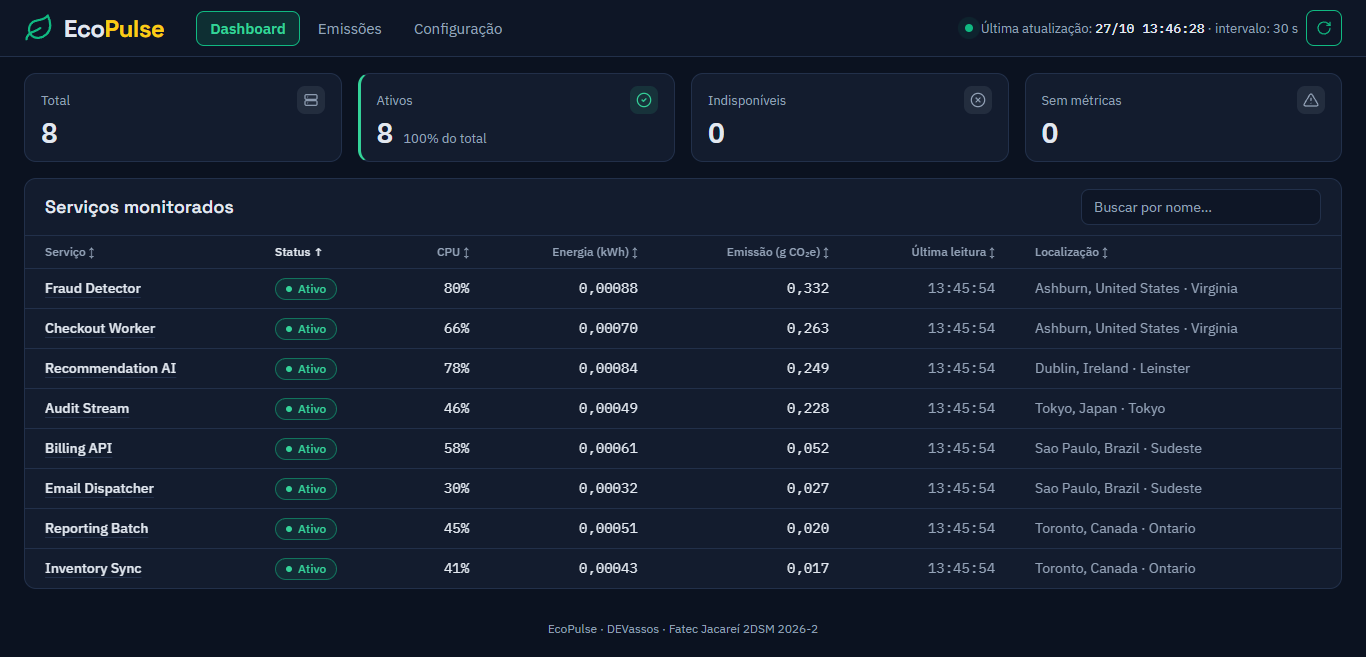
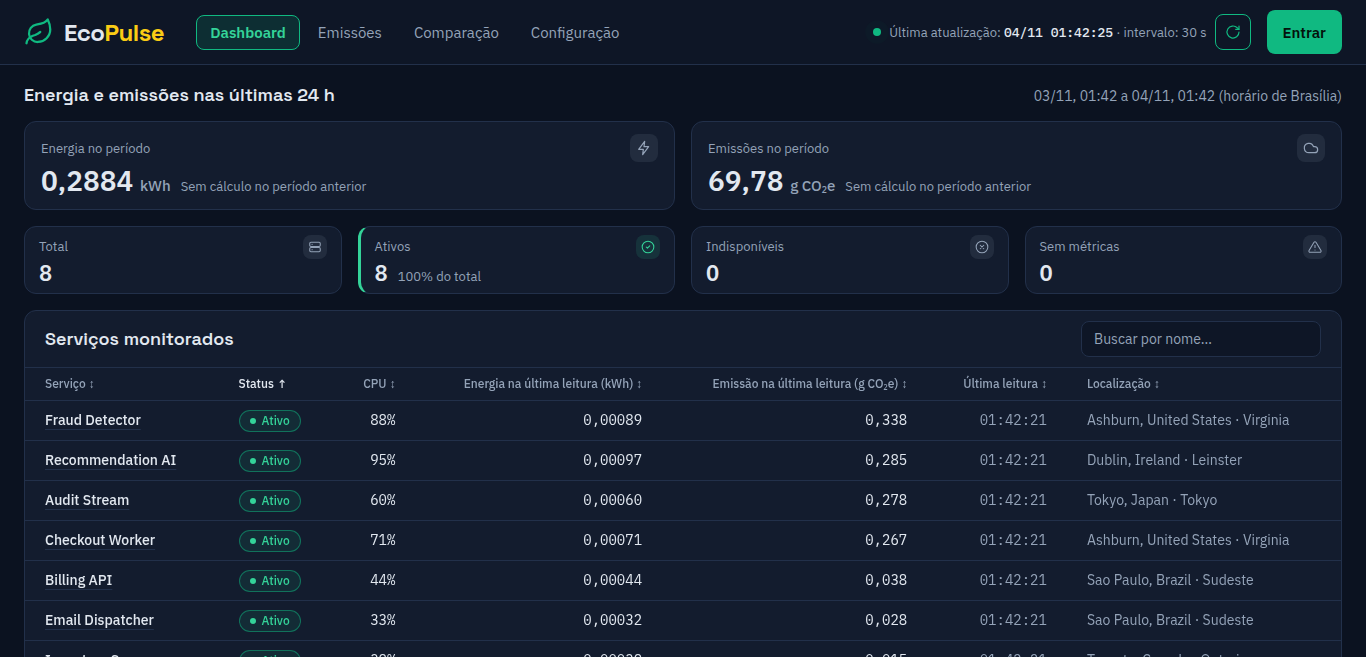
docs(docs): registra a nova ordem do dashboard (#259) [RF08 RF09]
README raiz: descrição dos cards e dos indicadores na nova ordem e os
três prints do dashboard refeitos com o backend real em 04/11/2026.
frontend/README.md: posição do SummaryPanel, estado "Calculando…",
nomes das colunas e o passo 55 do "Como verificar".
identidade-visual.md: impacto primeiro e o card compacto.

diff --git a/frontend/README.md b/frontend/README.md
@@ -75,10 +75,11 @@ Lidas do `.env` da **raiz** do repositório (modelo em `.env.example`; `envDir: 
 
 ## Indicadores agregados (RF08)
 
-- `SummaryPanel`, abaixo dos cards de estado, mostra **Energia no período** (kWh, 4 casas) e **Emissões no período** (g CO₂e, 2 casas) das **últimas 24 h**, com o período no título em horário de Brasília (`timeZone: 'America/Sao_Paulo'`). O estado dos serviços fica só nos cards do `KpiPanel` (#21): o `services` de `GET /api/services/summary` é o estado **atual** e não depende do período, por isso o painel não o repete.
+- `SummaryPanel` fica no topo do dashboard, logo abaixo do cabeçalho e acima dos cards de estado (#259: o impacto vem primeiro), e mostra **Energia no período** (kWh, 4 casas) e **Emissões no período** (g CO₂e, 2 casas) das **últimas 24 h**, com o período no título em horário de Brasília (`timeZone: 'America/Sao_Paulo'`). O estado dos serviços fica só nos cards do `KpiPanel` (#21): o `services` de `GET /api/services/summary` é o estado **atual** e não depende do período, por isso o painel não o repete.
 - O `DashboardPage` chama `GET /api/services/summary` (por `fetchServicesSummary`, em `src/services/services.service.ts`) a cada ciclo do polling, duas vezes: as últimas 24 h e as 24 h anteriores a elas. A nota de cada card é a variação "±N,N% vs. 24 h anteriores"; sem cálculo no período anterior, "Sem cálculo no período anterior"; com total anterior zero, "Sem base para comparação".
 - Sem cálculo no período, o valor é o traço do `MissingValue` ("sem cálculo" para leitor de tela), nunca zero. Nos ciclos seguintes ao primeiro, a variação anterior continua na tela até chegar a nova resposta, sem piscar "Comparando período anterior…".
 - Falha do resumo ou da comparação aparece como `ErrorState` abaixo da faixa de falha da lista (`UpdateFailedBanner`, #217), e os cards ficam com os números apagados até a próxima busca bem-sucedida.
+- Enquanto a primeira resposta não chega, os dois cards mostram "…" e "Calculando o período…", nunca "—" nem zero, e já ocupam o lugar deles, para a página não pular quando o resumo chega (#259). Os cards de estado ficam logo abaixo, na versão compacta do `MetricTile` (`compact`, cerca de 64 px).
 - No modo demonstração (sem `VITE_API_URL`) o painel não aparece: não há dados de demonstração para o resumo.
 - Com o backend falso (`npm run mock`, #239), o painel soma as coletas que o mock gera a cada 30 s. Como elas se repetem dia a dia, a variação contra as 24 h anteriores fica perto de zero.
 
@@ -92,7 +93,7 @@ Lidas do `.env` da **raiz** do repositório (modelo em `.env.example`; `envDir: 
 
 ## Energia e emissão na tabela
 
-- As colunas "Energia (kWh)" e "Emissão (g CO₂e)" mostram o resultado da **última coleta** de cada serviço (cerca de 30 s de operação), calculado pelo backend desde o #139. Sem cálculo disponível (por exemplo, com a API de carbono fora), aparece "—", nunca zero.
+- As colunas "Energia na última leitura (kWh)" e "Emissão na última leitura (g CO₂e)" mostram o resultado da **última coleta** de cada serviço (cerca de 30 s de operação), calculado pelo backend desde o #139. Sem cálculo disponível (por exemplo, com a API de carbono fora), aparece "—", nunca zero.
 - Energia e emissão têm resolução fixa por coluna (`formatFixed` em `src/utils/format.ts`): kWh com 5 casas e g com 3, nas mesmas unidades da API. As vírgulas ficam alinhadas e o número não muda de tamanho a cada leitura. 0,04 g aparece como **0,040** (antes, "0,0"). Um valor positivo menor que a resolução aparece como "< 0,001" (g) ou "< 0,00001" (kWh), nunca como zero; zero calculado aparece "0,000"; sem cálculo, continua "—".
 - A tabela não repete o `period` de `GET /api/services`: a coluna **Última leitura** já diz de quando são os valores da linha: os da coleta, não um total.
 
@@ -261,3 +262,4 @@ npm run mock        # backend falso em http://localhost:3000 (desenvolvimento)
 57. Marcar **60 s** e clicar em **Salvar** → "Intervalo salvo: o dashboard passa a atualizar a cada 60 s." e "Valor salvo: 60 s, trocado em dd/mm HH:MM:SS"; o terminal do mock registra `PUT /monitoring-settings  (com Bearer)`. Voltar ao dashboard → o selo mostra "intervalo: 60 s", e o terminal do mock passa a registrar `GET /services` a cada 60 s.
 58. Abrir http://localhost:5173 numa janela anônima, sem login → o selo também mostra "intervalo: 60 s" (a troca vale para todos os visitantes). Sem login, `curl -X PUT http://localhost:3000/api/monitoring-settings -H "Content-Type: application/json" -d '{"refreshIntervalSeconds":60}'` → `401`; com o token do login e `{"refreshIntervalSeconds":45}` → `400` "refreshIntervalSeconds deve ser 15, 30 ou 60.".
 59. Parar o mock com o dashboard aberto → o intervalo continua o último lido (60 s), sem voltar ao padrão; sem `.env` (modo demonstração), o intervalo é o de `VITE_REFRESH_INTERVAL_MS` (30 s por padrão).
+60. Com o backend real (`docker compose up --build`), abrir http://localhost:5173 numa janela de 1366×657 → logo abaixo do cabeçalho vem **Energia e emissões nas últimas 24 h**, com o período; abaixo, os cards de estado compactos (cerca de 64 px); a tabela mostra pelo menos 6 das 8 linhas sem rolar, e os cabeçalhos dizem "Energia na última leitura (kWh)" e "Emissão na última leitura (g CO₂e)". Com o resumo demorando (aba Rede, limitar a velocidade), o painel aparece em "Calculando o período…" e os cards de estado não mudam de lugar quando ele chega (#259).

diff --git a/README.md b/README.md
@@ -52,19 +52,19 @@ O desenvolvimento acontece na branch `develop`; cada funcionalidade entra nesta 
 
   ![Tabela de serviços monitorados com o backend real](docs/img/sprint-2-dashboard-backend-real.png)
 
-  _Tabela ligada ao backend real (`docker compose`) em 27/10/2026, numa janela de 1366×657: ordem inicial por gravidade, status logo depois do nome, energia e emissão com casas fixas (kWh com 5, g com 3) e as 8 linhas visíveis sem rolar (#203)._
+  _Tabela ligada ao backend real (`docker compose`) em 04/11/2026, numa janela de 1366×657: ordem inicial por gravidade, status logo depois do nome, energia e emissão da última leitura com casas fixas (kWh com 5, g com 3) e 6 das 8 linhas visíveis sem rolar, abaixo dos indicadores do período e dos cards de estado (#203, #259)._
 
-- **RF08, RF09 — Cards de estado dos serviços (#21, PR #202):** acima da tabela, cards com o total de serviços monitorados e quantos estão ativos, indisponíveis e sem métricas, contados na mesma resposta de `GET /api/services` e atualizados no mesmo ciclo. Os removidos ficam fora do total, e a cor só aparece quando há serviços naquele estado. Sem dados, os cards não aparecem; numa falha, mantêm o último dado, apagado, com "Desatualizado desde …".
+- **RF08, RF09 — Cards de estado dos serviços (#21, PR #202):** entre os indicadores do período e a tabela, cards compactos com o total de serviços monitorados e quantos estão ativos, indisponíveis e sem métricas, contados na mesma resposta de `GET /api/services` e atualizados no mesmo ciclo. Os removidos ficam fora do total, e a cor só aparece quando há serviços naquele estado. Sem dados, os cards não aparecem; numa falha, mantêm o último dado, apagado, com "Desatualizado desde …".
 
-  ![Cards de estado acima da tabela de serviços](docs/img/sprint-2-kpis.png)
+  ![Cards de estado entre os indicadores do período e a tabela de serviços](docs/img/sprint-2-kpis.png)
 
-  _Dashboard com o backend real (`docker compose`) em 22/10/2026: os 8 serviços ativos, e Indisponíveis e Sem métricas zerados, sem cor._
+  _Dashboard com o backend real (`docker compose`) em 04/11/2026: os 8 serviços ativos, e Indisponíveis e Sem métricas zerados, sem cor, nos cards compactos abaixo dos indicadores do período (#259)._
 
-- **RF08 — Indicadores agregados e comparação por período (#175, PR #215):** abaixo dos cards de estado, o dashboard mostra a energia (kWh) e o CO₂e (g) das últimas 24 h, com o período em horário de Brasília, e a variação contra as 24 h anteriores. Sem cálculo no período, o valor é "—", nunca zero; com total anterior zero, a tela informa que não há base para a variação. A API usa `GET /api/services/summary?from=&to=`, documentada em [docs/api.md](docs/api.md).
+- **RF08 — Indicadores agregados e comparação por período (#175, PR #215):** no topo do dashboard, logo abaixo do cabeçalho (#259), a tela mostra a energia (kWh) e o CO₂e (g) das últimas 24 h, com o período em horário de Brasília, e a variação contra as 24 h anteriores. Sem cálculo no período, o valor é "—", nunca zero; com total anterior zero, a tela informa que não há base para a variação. A API usa `GET /api/services/summary?from=&to=`, documentada em [docs/api.md](docs/api.md).
 
   ![Indicadores agregados com comparação às 24 h anteriores](docs/img/sprint-2-indicadores-agregados.png)
 
-  _Dashboard com o backend real (`docker compose`) em 03/11/2026, 21h48: 1,2258 kWh e 301,46 g CO₂e nas últimas 24 h. Não há cálculo nas 24 h anteriores, então os cards dizem "Sem cálculo no período anterior" em vez de uma variação. Ícones de linha nos dois cards (#258)._
+  _Dashboard com o backend real (`docker compose`) em 04/11/2026, 1h42: 0,2884 kWh e 69,78 g CO₂e nas últimas 24 h, com o banco coletando havia cerca de 4 h. Não há cálculo nas 24 h anteriores, então os cards dizem "Sem cálculo no período anterior" em vez de uma variação. Ícones de linha nos dois cards (#258); impacto no topo (#259)._
 
 - **RNF02 — Indicador de última atualização (#89):** selo no cabeçalho com o horário da última busca bem-sucedida e um ponto verde pulsando enquanto os dados estão em dia; se uma busca falha, ele fica laranja e passa a dizer "Desatualizado desde …", sem apagar os dados da tela.
 

diff --git a/docs/identidade-visual.md b/docs/identidade-visual.md
@@ -72,6 +72,7 @@ No Tailwind, os tokens viram classes: `bg-bg`, `bg-surface`, `bg-surface-2`, `bg
 * Bordas sutis e cantos arredondados para manter uma aparência limpa e profissional.
 * Os ícones dos cards são SVG de linha 24×24, com o mesmo traço (`metricIconProps`, em `MetricTile.tsx`), na cor do tom do card. Caractere ou emoji não serve de ícone (#258).
 * O número isolado de um card (estado, indicadores do período, resumo da página Emissões) usa `--sans` semibold, não a fonte de título.
+* No dashboard, o impacto vem primeiro (#259): os indicadores de energia e CO₂e do período ficam no topo, com o número em 28 px. Os cards de estado vêm logo abaixo, na versão compacta do `MetricTile` (cerca de 64 px, número em 22 px).
 
 ### Botões
 * **Botão cheio** (ação principal da tela, ex.: "Entrar"): fundo `--accent`, texto `--on-accent`. O texto fica escuro porque o branco sobre o verde dá 2,5:1 e reprova no AA.
